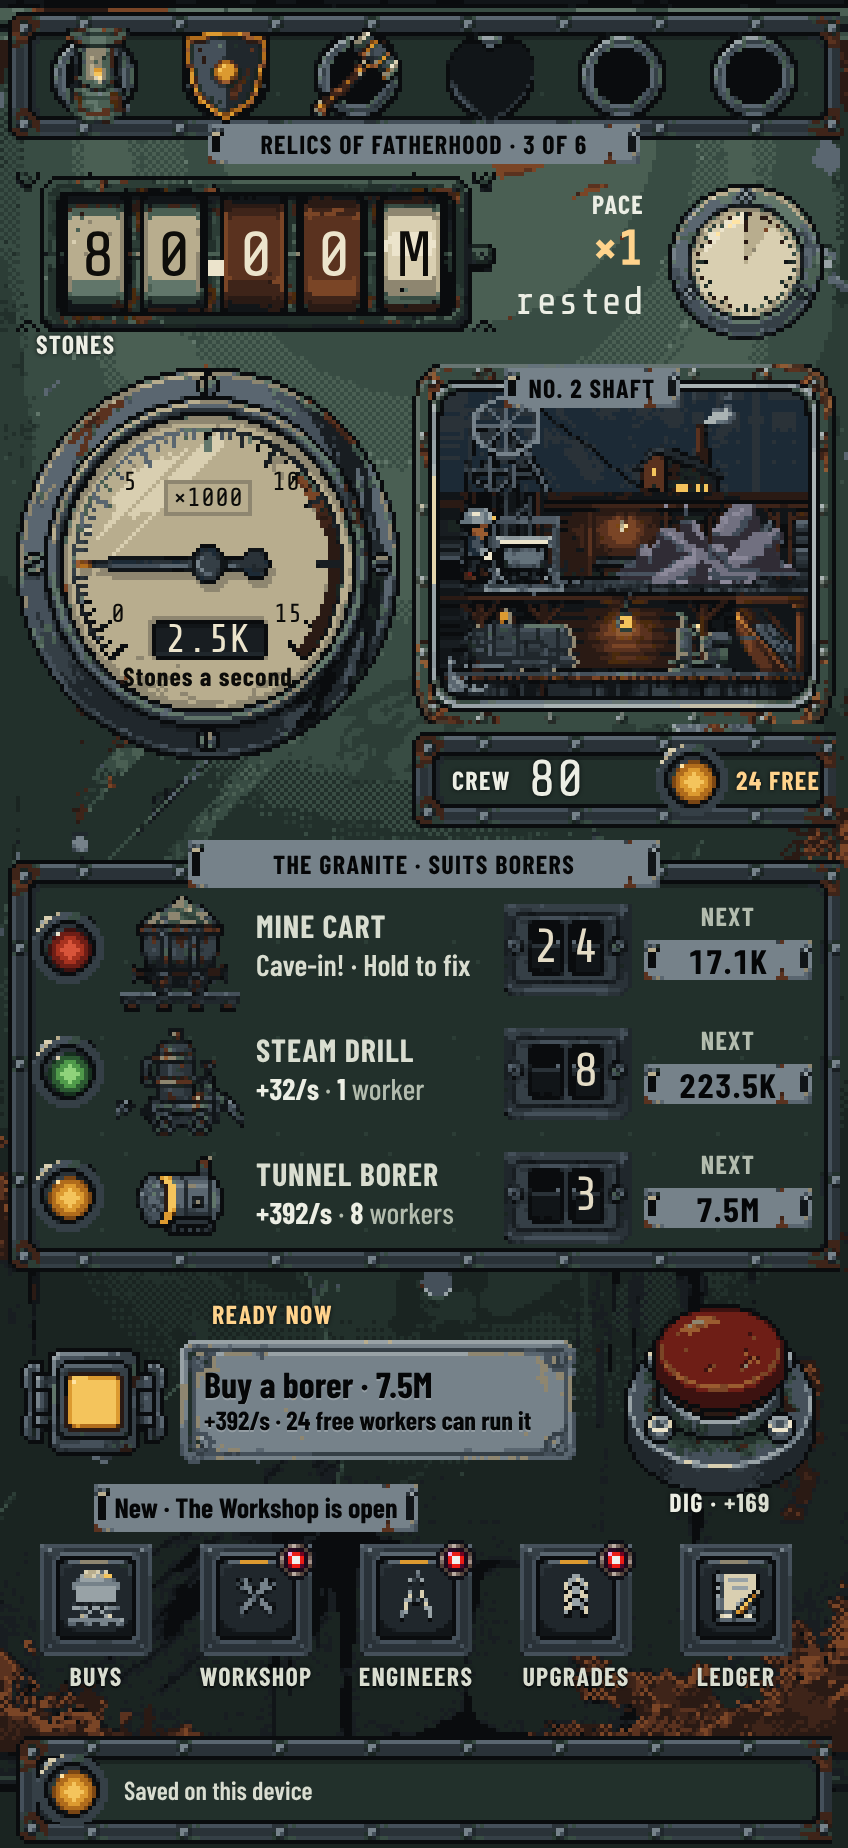
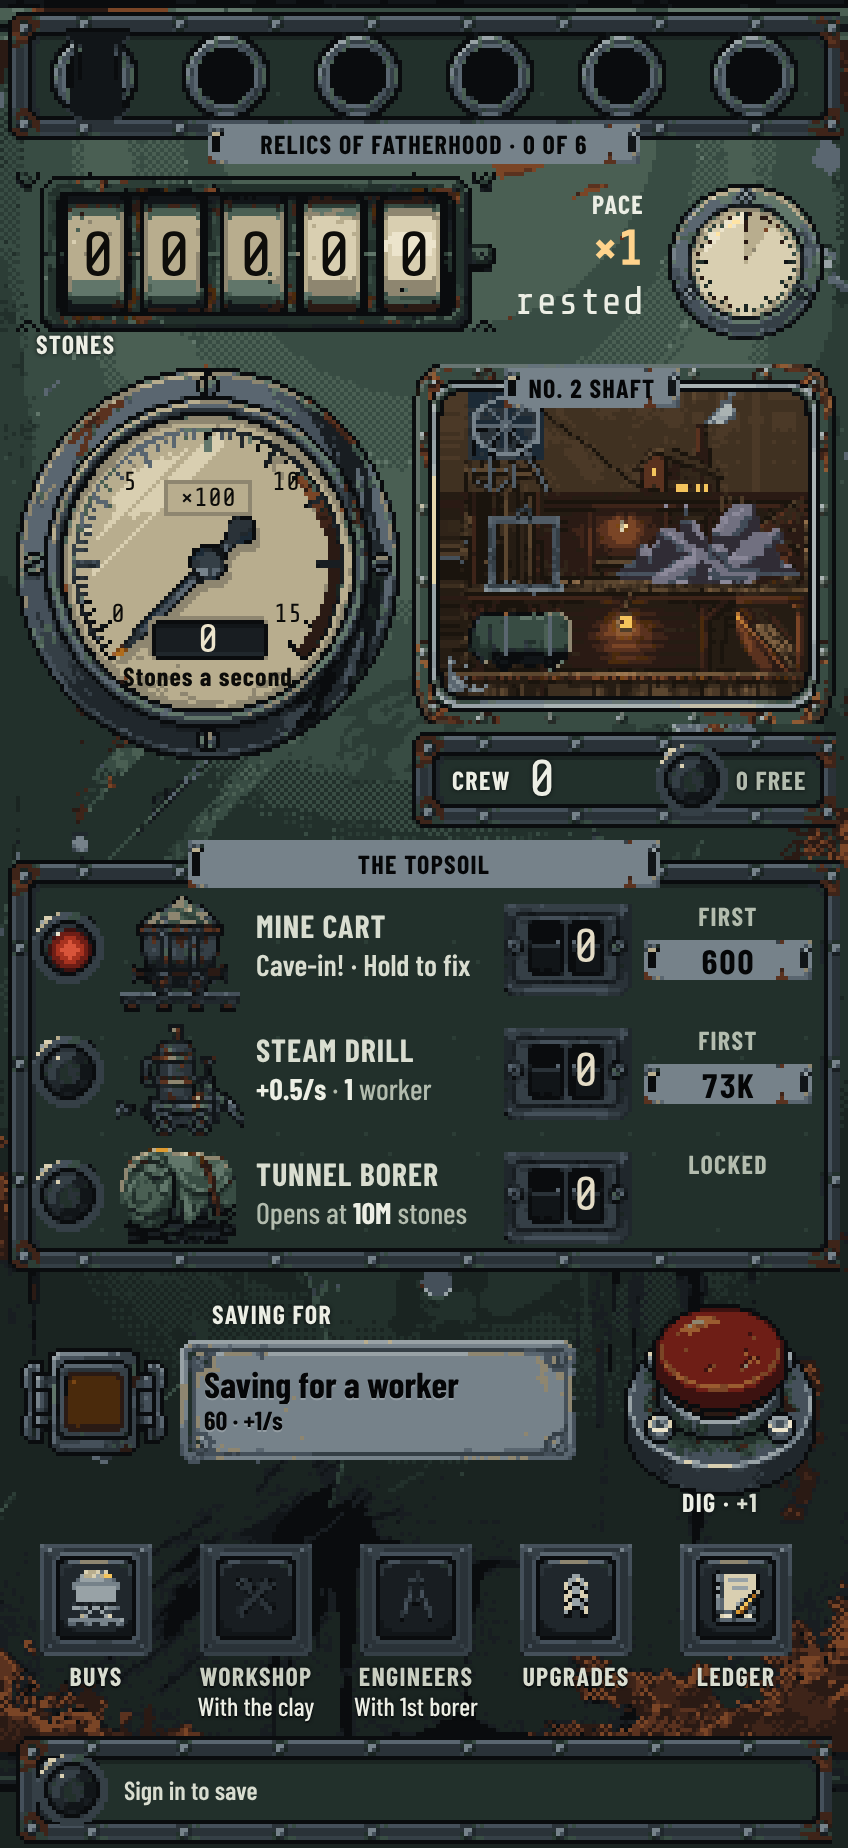
M15-6: The visual check reads Buys on the line
Claude-Session: https://claude.ai/code/session_011RgeWvacYT6Zdhfwe1Lmpd

diff --git a/tools/browser/fixtures.ts b/tools/browser/fixtures.ts
@@ -497,7 +497,7 @@ export function shortMountain(): Seed {
     ...open,
     mountain: {
       remaining: 240_000_000 - 25_000_000,
-      pocket: 6_000_000,
+      pocket: 7_000_000,
       helpers: 21,
       carts: 6,
       drills: 4,
@@ -605,7 +605,12 @@ export function machinePickMountain(): Seed {
     mountain: {
       ...machine.mountain,
       pocket: 200_000_000,
-      helpers: 90,
+      helpers: 120,
+      // On the line (#536) three pit trains and twenty drills carry the haul
+      // and the face past the lift, so the lift is the stage to raise and the
+      // Great Machine the pick.
+      drills: 20,
+      trains: 3,
       engineers: [{ name: "Ada", rank: 0, trips: 0, post: "machine" }],
     },
   };

diff --git a/tools/browser/fixtures.test.ts b/tools/browser/fixtures.test.ts
@@ -212,7 +212,7 @@ const EXPECTED = {
     lastSeen: 1700000000000,
     mountain: {
       remaining: 215000000,
-      pocket: 6000000,
+      pocket: 7000000,
       helpers: 21,
       carts: 6,
       drills: 4,
@@ -333,11 +333,12 @@ const EXPECTED = {
     mountain: {
       remaining: 180000000,
       pocket: 200000000,
-      helpers: 90,
+      helpers: 120,
       kids: 0,
       carts: 20,
-      drills: 10,
+      drills: 20,
       borers: 4,
+      trains: 3,
       machines: 1,
       engineers: [{ name: "Ada", rank: 0, trips: 0, post: "machine" }],
     },

diff --git a/docs/DESIGN.md b/docs/DESIGN.md
@@ -113,7 +113,7 @@ History: until #558, old saves were migrated, not wiped. Grid saves (v1, v2) tur
 - Buys, Upgrades, Workshop, Engineers and the Ledger open as drawers (#373, #374, #375, #455): a riveted sheet slides up from under the board's middle in six hard steps (240ms) and away in five (200ms), covering 178px down to the save line, so the odometer and the save line stay in view. Each has its title, a kick under it, an "i" in the corner, a list of rows, the spare plate under a short list, and Back. Buys has one more key in its head, left of the "i": the amount key (#358). The Ledger has the Sound key there (#491). A tap on the board above the drawer (the scrim) closes it, and a tap there over a relic socket also shows that relic's note. Escape closes it too. Opening one drawer closes the others. For 400ms after a drawer opens, a finger that lands on it (a row, the "i" or Back) is the second tap of the double tap that opened it and does nothing. It is judged for the whole drawer, at the press and again at the click: a touch's click lands where the finger lifts, on a row that may have slid under it as the drawer rose. A press that starts in the 400ms stays early when it lifts later. Back closing a drawer starts the same 400ms for what it shows again: a finger that lands in that time on a key, the Ready now plate or a bay is the double tap's second tap and does nothing, so it never opens the key under Back or buys. A keyboard press is never early. A troubled row still counts the press toward its fix. The "i" shows the How it works cards in the list's place, with one Back that brings the list back and starts the 400ms again. While Buys is open its rows, sections and crew chips keep their places, and a row that should appear or go waits for the next open. Upgrades keeps its row order while open; which rows show can still change on a re-load.
 - A drawer row is 76px tall, 10px from the next: a lamp, the icon, the name (with a badge such as "Lv 2/10") and its flag on the same line, an info line, and a need or a why, then the gain, the price tag and the verb at the right. Three lines at most, so every line sits on the frame's face: with no need and no why under it, the info line may take two (#506). In the info line, and in the line under a machine on the board, the figures are bright and bold and the words are quiet. A Buys row is in one of four states. Ready: a green lamp, amber on the Ready now pick (flagged "Ready now", or "Saving for" on the machine he is saving for), and the verb Hire or Buy. Short of workers: "Needs 8 workers" in rust, a dark lamp and the verb naming the hands; it still buys, as before. Dear: a dark lamp, a dim tag and the hands or the verb in quiet ink. Locked: "Locked" on a dim tag, the dim icon (the borer under its tarp, the Great Machine under canvas, the kid as a silhouette) and the line that says where it opens. A tap that buys holds "Done" on the row, with a green lamp, for 1.9s, so a sleepy second tap buys nothing. A tap he cannot afford blinks the lamp red, off, red, off (140ms each) and buys nothing; under reduced motion it does not blink. An engineer on the machine adds "Ada +86/s" to the flag (#506); where the name's line has no room it falls back to the number alone, or beside a pick word to that word, and then to its ellipsis. The staffing New row reads "New" and hires a worker. A worker or kid row's gain, and the New row's, is the crew's rise with them, so it counts the idle machines they start, Helping hands and a worker mark (#490); a machine row's is what the line gains with it (#536). The spare plate fills what a short list leaves: the maker's plate, the strip, or nothing.
 - Buys' amount key (#358) cycles ×1, ×10 and Max for every row at once; a tap moves it on, and the 400ms settle holds it like the "i". Each row then shows the real count and total: the price tag is the total for that many, the verb counts them ("Buy 10", "Hire 37"), the gain is what the ones the free hands can run add to the line (#536; so Max on idle carts never promises their output, and a machine on a stage with room to spare adds +0), and a machine's worker bill is one's bill times the count ("Needs 80 workers"). A row too dear or short of hands keeps the counted verb, where ×1 names the hands, so it still says how many. ×10 buys exactly ten, all or nothing, and is dear until the pocket holds ten. Max buys as many as the pocket holds; with none affordable it shows one's price, dimmed. A Ready now pick whose ×10 or Max the pocket cannot pay, or the free hands cannot all run, loses its amber lamp and flag on its row; the plate still offers one. The staffing New row hires one worker in any amount, and the Ready now plate always buys one. The amount is kept on this device, beside the vein wait, and not in the save; a new device or a broken store starts at ×1.
-- A drawer fits with no scroll in its usual states: early and mid-game Buys (to the borer and the locked Great Machine) fit. Late-game Buys (the Great Machine's era) and a full Upgrades are longer than the drawer and scroll inside it (C1): the page never scrolls, the spare plate is off and takes no room, a drag over a row never buys, and the staffing New row is scrolled into view as Buys opens (the list scrolls, never the board). Under Buys' list, over Back, stands a footnote: "Ready now offers the biggest machine your free workers can run and you can afford. It saves for the next one when nothing is affordable, offers a worker only when no hand is free, and never buys for you." It shows when the list fits with it there; when it would push the list into a scroll (from mid game on), it steps aside for that opening.
+- A drawer fits with no scroll in its usual states: early Buys (before the borer) fits. From the borer on, Buys (with the hoist and the pit train rows since #536, until Buys by stage, #538) and a full Upgrades are longer than the drawer and scroll inside it (C1): the page never scrolls, the spare plate is off and takes no room, a drag over a row never buys, and the staffing New row is scrolled into view as Buys opens (the list scrolls, never the board). Under Buys' list, over Back, stands a footnote: "Ready now offers the biggest machine your free workers can run and you can afford. It saves for the next one when nothing is affordable, offers a worker only when no hand is free, and never buys for you." It shows when the list fits with it there; when it would push the list into a scroll (from mid game on), it steps aside for that opening.
 - The Ledger drawer (#375) has the title "Ledger" and the kick "Tonight, and the mine so far". Left of its "i" sits the game's one sound switch (#491): `Quiet`, or `Sound` once he turns it on ("Sound is off" / "Sound is on" on its label, pressed when on). Turning it on knocks the hammer once, so he hears what he turned on. It is Quiet on a new device and stays as he left it on this one (kept in its localStorage beside the Buys amount, never in the save; a store that refuses it starts Quiet). The Ledger opens from the first open, so it is reachable before the Workshop. Its list, top to bottom, never scrolls:
   - **Tonight:** this run's newest three lines in an inset box, newest first, each with its local time ("22:13") and one line of words that ends in an ellipsis rather than wrap. Tonight is the field log since the mountain in play came into play, so a Start over, a pass, a restored copy, or the cloud's or another device's copy taking its place starts a new one. A line is a buy ("Hired worker 12."), an upgrade's level, a boost started ("Overtime started for 30:00."), a craft on the bench or fitted, a relic found, a layer's arrival, the away haul ("Came back. The crew dug 1.2M while you were away."), a golden vein's stones, a fix ("Fixed! The crew cheers."), or an engineer promoted, stationed, sent out, recalled or home. Save and log events never show (the save line speaks for the save), and an event it cannot word truly is skipped, never guessed. With no line, the Tonight legend and box hide and the spare plate fills.
   - **The mine:** two 76px rows that take no tap. Stones: the stone icon, "412.4K stones left" (the exact count on its tooltip) and the materials met on its info line ("Clay 10 · Iron 4"). Relics: the next relic's dark icon, "2 of 6 relics found", the goal ("Next: … · …", or the unguided sentence, with the Legacy on a kid's run), the next layer's hint, and the guide bar at the row's foot. Once every relic is found, the lit Mantle and "Every relic is yours. You are a legend."
